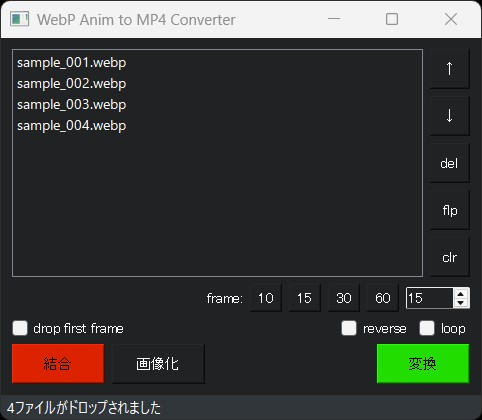
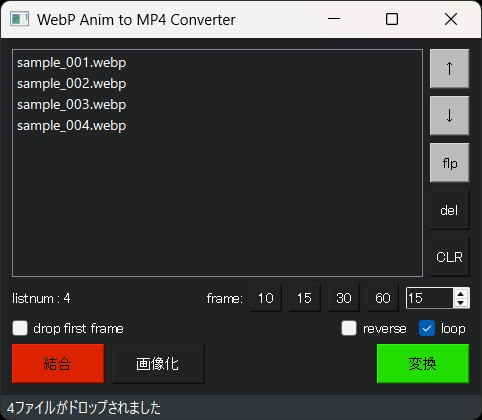
0.2.4 ボタンの順序と色を変更

diff --git a/WebpAnim2Mp4.py b/WebpAnim2Mp4.py
@@ -57,20 +57,23 @@ class WebpAnim2Mp4(QMainWindow):
         self.listBtnLayout = QVBoxLayout()
         self.button_up = QPushButton("↑", self)
         self.button_up.setFixedSize(40,40)
+        self.set_button_StyleSheet(self.button_up)
         self.listBtnLayout.addWidget(self.button_up)
         self.button_down = QPushButton("↓", self)
         self.button_down.setFixedSize(40,40)
+        self.set_button_StyleSheet(self.button_down)
         self.listBtnLayout.addWidget(self.button_down)
+        self.listBtnLayout.addStretch()
+        self.button_flip = QPushButton("flp", self)
+        self.button_flip.setFixedSize(40,40)
+        self.set_button_StyleSheet(self.button_flip)
+        self.listBtnLayout.addWidget(self.button_flip)
         self.listBtnLayout.addStretch()
         self.button_delete = QPushButton("del", self)
         self.button_delete.setFixedSize(40,40)
         self.listBtnLayout.addWidget(self.button_delete)
         self.listBtnLayout.addStretch()
-        self.button_flip = QPushButton("flp", self)
-        self.button_flip.setFixedSize(40,40)
-        self.listBtnLayout.addWidget(self.button_flip)
-        self.listBtnLayout.addStretch()
-        self.button_clear = QPushButton('clr')
+        self.button_clear = QPushButton('CLR')
         self.button_clear.setFixedSize(40,40)
         self.listBtnLayout.addWidget(self.button_clear)
         self.listBtnLayout.addStretch()
@@ -167,6 +170,16 @@ class WebpAnim2Mp4(QMainWindow):
             self.load_settings()
 
         self.file_paths = []  # ファイルパスのリスト
+
+    def set_button_StyleSheet(self, button):
+        button.setStyleSheet(
+            """
+            QPushButton {
+                background-color: #BBBBBB;  /* 背景色 */
+                color: black;  /* 文字色 */
+            }
+            """
+        )
 
     def closeEvent(self, event):
         self.save_settings()

diff --git a/readme.md b/readme.md
@@ -1,4 +1,4 @@
-## WebpAnim2Mp4について 0.2.3
+## WebpAnim2Mp4について 0.2.4
 WebPのアニメーションファイルをmp4に変換します  
 また動画や画像を結合してmp4に変換します  
 
@@ -104,6 +104,7 @@ WebPのアニメーションファイルをmp4に変換します
 ![WebpAnim2Mp4-image](docs/WebpAnim2Mp4-image003.jpg)
 
 ## 変更履歴
+- 0.2.4 ボタンの順序と色を変更
 - 0.2.3 loop指定時に1フレーム少なくなっていた不具合修正、結合モードでもloop指定を有効、他
 - 0.2.2 選択中リストのflip機能を追加、リストのキー操作を常時可能に修正、他
 - 0.2.1 reverse機能を追加、画像化の対象にmp4も追加、他
